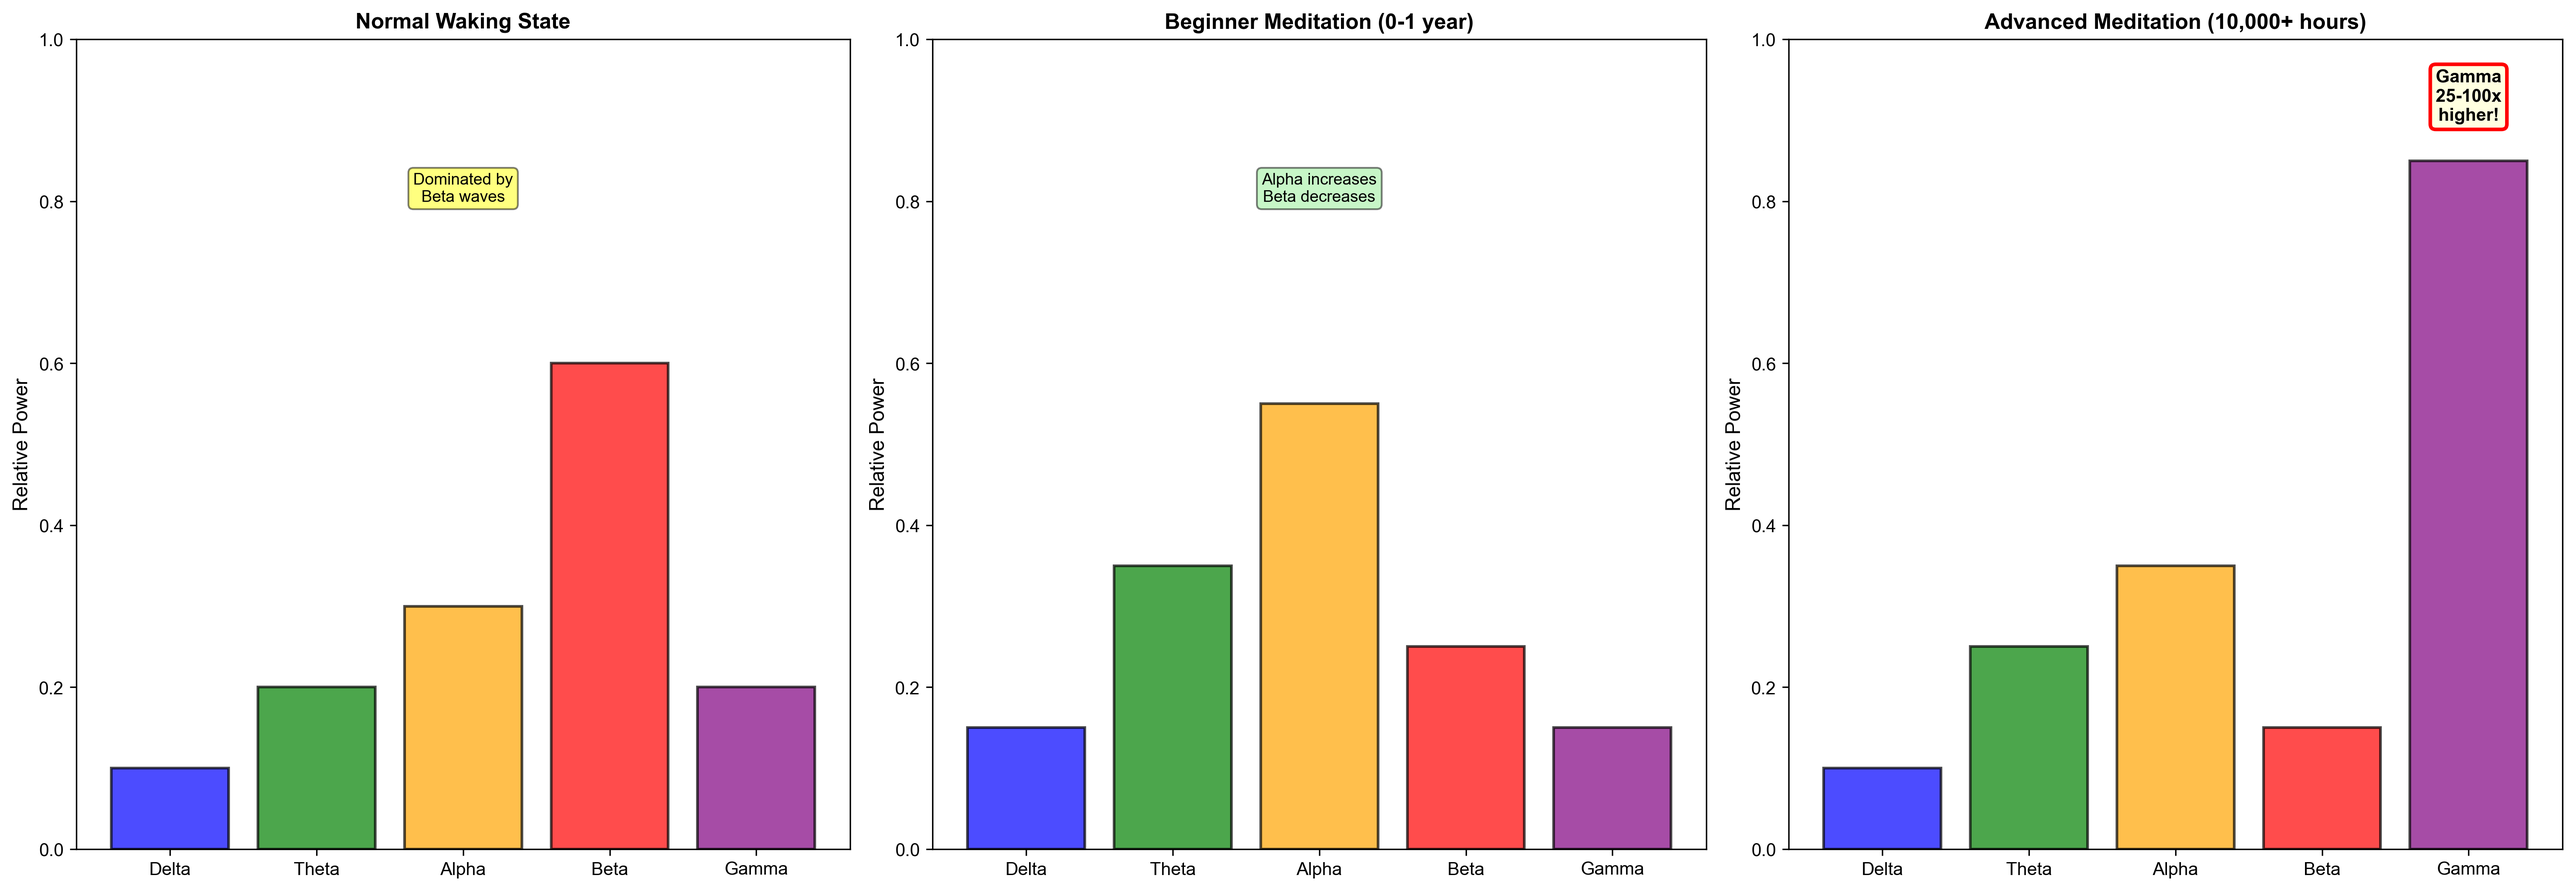
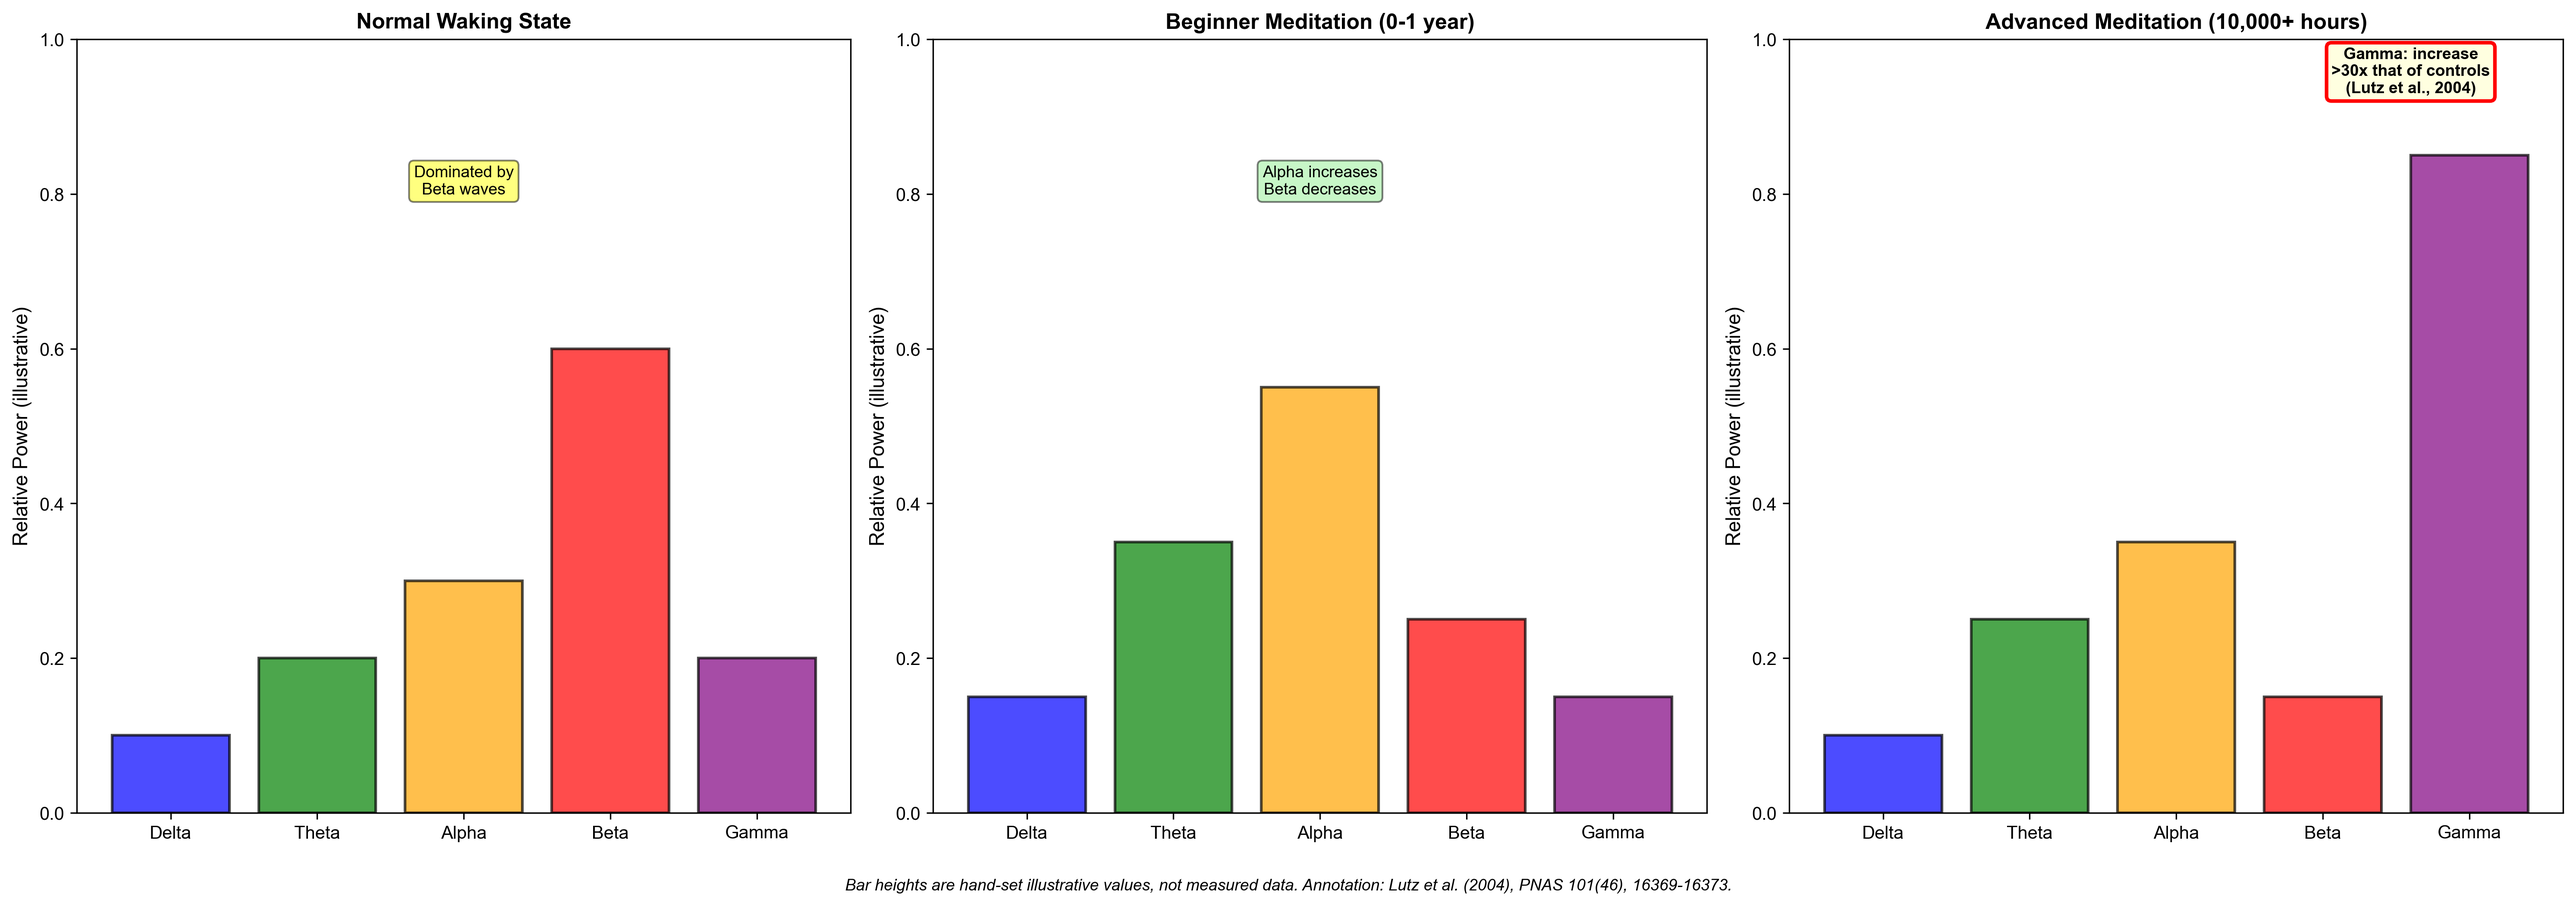
Fact-check fixes: Quantum x Eastern Philosophy articles 11-12
Align the free scripts and READMEs with the fact-checked articles
(Lutz et al. 2004 figures, author-assigned scores labelled as
illustrative, Series 3 naming).

diff --git a/series-03-quantum-eastern-philosophy/article-12-unified-reality/unified_reality_analysis.py b/series-03-quantum-eastern-philosophy/article-12-unified-reality/unified_reality_analysis.py
@@ -1,9 +1,13 @@
 """
 Unified Reality - Free Version
-Season 2 Article 12 (Finale): Basic Visualizations
+Series 3 Article 12 (Finale): Basic Visualizations
 
 Author: Wina Wu
-Date: 2025-01
+Date: 2026-10
+
+NOTE: Every score in this script (the 11 correspondence scores and the five
+theme scores) is hand-set by the author for illustration. They are subjective
+ratings, not measurements, and they are not computed from any data set.
 
 Requirements:
 pip install numpy matplotlib networkx
@@ -18,7 +22,7 @@ plt.rcParams['axes.unicode_minus'] = False
 
 print("=" * 70)
 print("Unified Reality - Free Version (Finale)")
-print("Season 2 Article 12")
+print("Series 3 Article 12")
 print("=" * 70)
 
 # Visualization 1: 11 Correspondences Network
@@ -26,7 +30,9 @@ def correspondences_network_basic():
     print("\n[Visualization 1] 11 Core Correspondences Network")
     fig, ax = plt.subplots(figsize=(20, 16))
 
-    # 11 correspondences with similarity scores
+    # 11 correspondences with hand-set illustrative scores (author-assigned,
+    # 0-10; not measured or computed). Quantum side first, Eastern side second,
+    # so that node colours match the legend.
     correspondences = [
         ('Wave-Particle\nDuality', 'Emptiness\n(Sunyata)', 9),
         ('Copenhagen\nInterpretation', 'Kyoto School\nPhilosophy', 8),
@@ -38,7 +44,7 @@ def correspondences_network_basic():
         ('EPR State', 'Dependent\nOrigination', 9),
         ('Quantum Mind\nTheory', 'Mind Philosophy\n(Xinxue)', 7),
         ('Quantum\nComputing', 'Non-duality\n(Advaita)', 8),
-        ('Meditation\nPractice', 'Quantum State\nCoherence', 8),
+        ('Quantum State\nCoherence', 'Meditation\nPractice', 8),
     ]
 
     G = nx.Graph()
@@ -71,7 +77,7 @@ def correspondences_network_basic():
            fontsize=16, fontweight='bold',
            bbox=dict(boxstyle='round', facecolor='yellow', alpha=0.7))
 
-    ax.text(0.02, 0.02, 'Blue: Quantum Mechanics\nGreen: Eastern Philosophy\nLine thickness: Similarity',
+    ax.text(0.02, 0.02, 'Blue: Quantum Mechanics\nGreen: Eastern Philosophy\nLine thickness: author-assigned illustrative score',
            transform=ax.transAxes, fontsize=10,
            bbox=dict(boxstyle='round', facecolor='white', alpha=0.8))
 
@@ -80,10 +86,11 @@ def correspondences_network_basic():
     plt.savefig('correspondences_network_basic.png', dpi=300, bbox_inches='tight')
     plt.show()
     print("  > 11 correspondences network visualized")
+    return correspondences
 
 # Visualization 2: 5 Common Patterns
 def five_patterns_basic():
-    print("\n[Visualization 2] Five Common Patterns")
+    print("\n[Visualization 2] Five Recurring Themes (illustrative scores)")
     fig, ax = plt.subplots(figsize=(14, 10))
 
     patterns = [
@@ -94,7 +101,11 @@ def five_patterns_basic():
         'Wholeness'
     ]
 
-    # Score for each pattern across all 11 correspondences
+    # Hand-set illustrative scores (not computed from data).
+    # The article distils three patterns (relationality, the participatory role
+    # of the observer, transcending binary opposition); this chart also lists
+    # Fundamental Uncertainty and Wholeness. "Observer Participation" follows
+    # Wheeler-style readings (speculative), not Bohr's own view.
     scores = [9.2, 8.5, 8.8, 8.7, 8.3]
     colors = ['#FF6B6B', '#4ECDC4', '#45B7D1', '#FFA07A', '#98D8C8']
 
@@ -104,26 +115,27 @@ def five_patterns_basic():
     for i, (bar, score) in enumerate(zip(bars, scores)):
         ax.text(score + 0.1, i, f'{score:.1f}/10', va='center', fontsize=11, fontweight='bold')
 
-    ax.set_xlabel('Average Similarity Score', fontsize=12)
-    ax.set_title('Five Common Patterns\nAcross 11 Correspondences',
+    ax.set_xlabel('Author-assigned illustrative score (0-10)', fontsize=12)
+    ax.set_title('Five Recurring Themes (illustrative scores)',
                 fontsize=14, fontweight='bold', pad=20)
     ax.set_xlim(0, 10)
     ax.grid(alpha=0.3, axis='x')
 
     # Add explanation
     ax.text(0.5, -0.15,
-           'These five patterns emerge consistently\nacross all quantum-philosophy correspondences',
+           'Five themes identified by the author;\nscores are hand-set and illustrative',
            ha='center', transform=ax.transAxes, fontsize=10, style='italic',
            bbox=dict(boxstyle='round', facecolor='yellow', alpha=0.5))
 
     plt.tight_layout()
     plt.savefig('five_patterns_basic.png', dpi=300, bbox_inches='tight')
     plt.show()
-    print("  > Five common patterns visualized")
+    print("  > Five recurring themes visualized")
+    return scores
 
 # Visualization 3: Two Paths Converging
 def two_paths_basic():
-    print("\n[Visualization 3] Two Paths to Same Truth")
+    print("\n[Visualization 3] Two Paths, Compared")
     fig, ax = plt.subplots(figsize=(16, 12))
 
     # Two paths
@@ -168,46 +180,52 @@ def two_paths_basic():
             ax.arrow(0.85, y-0.05, 0, -0.04, head_width=0.03, head_length=0.02,
                     fc='green', ec='green', linewidth=2)
 
-    # Convergence
+    # Arrows from each path to the shared themes (a comparison, not a proof)
     ax.arrow(0.15, 0.27, 0.27, -0.15, head_width=0.04, head_length=0.03,
             fc='purple', ec='purple', linewidth=3, linestyle='--')
     ax.arrow(0.85, 0.27, -0.27, -0.15, head_width=0.04, head_length=0.03,
             fc='purple', ec='purple', linewidth=3, linestyle='--')
 
-    # Unified truth
-    ax.text(0.5, 0.05, 'UNIFIED REALITY\n\n' +
+    # Shared themes (the author's interpretation)
+    ax.text(0.5, 0.05, "SHARED THEMES\n(author's interpretation)\n\n" +
            'Relationality - Participation\n' +
            'Non-duality - Uncertainty - Wholeness',
            ha='center', fontsize=12, fontweight='bold',
            bbox=dict(boxstyle='round', facecolor='gold', edgecolor='red', linewidth=3))
 
-    ax.text(0.5, 0.35, 'CONVERGENCE', ha='center', fontsize=11,
+    ax.text(0.5, 0.35, 'COMPARISON', ha='center', fontsize=11,
            fontweight='bold', color='purple')
 
     ax.set_xlim(0, 1)
     ax.set_ylim(0, 1)
     ax.axis('off')
-    ax.set_title('Two Paths to the Same Truth',
+    ax.set_title('Two Paths, Compared',
                 fontsize=14, fontweight='bold')
 
     plt.tight_layout()
     plt.savefig('two_paths_basic.png', dpi=300, bbox_inches='tight')
     plt.show()
-    print("  > Two paths convergence visualized")
+    print("  > Two paths comparison visualized")
 
 # Execute
-correspondences_network_basic()
-five_patterns_basic()
+correspondences = correspondences_network_basic()
+theme_scores = five_patterns_basic()
 two_paths_basic()
+
+# Means are computed from the hand-set scores above (illustrative, not measured)
+mean_corr = float(np.mean([c[2] for c in correspondences]))
+mean_themes = float(np.mean(theme_scores))
 
 print("\n" + "=" * 70)
 print("Free Version Complete (Finale)!")
 print("=" * 70)
-print("\nKey Findings:")
-print("  - 11 correspondences between quantum & philosophy")
-print("  - 5 common patterns: Relationality, Participation, Non-duality,")
-print("    Uncertainty, Wholeness")
-print("  - Two paths (Science & Philosophy) converge on unified reality")
-print("  - Average similarity: 8.6/10")
-print("\nSeason 2 Complete! Thank you for the journey!")
+print("\nSummary:")
+print("  - 11 correspondences between quantum mechanics & Eastern philosophy")
+print("  - 5 recurring themes: Relationality, Observer Participation,")
+print("    Transcending Duality, Fundamental Uncertainty, Wholeness")
+print("  - Two paths (Science & Philosophy) compared side by side")
+print(f"  - Mean of the 11 hand-set correspondence scores: {mean_corr:.2f}/10")
+print(f"  - Mean of the 5 hand-set theme scores: {mean_themes:.2f}/10")
+print("  - All scores are the author's illustrative ratings, not measurements")
+print("\nSeries 3 Complete! Thank you for the journey!")
 print("=" * 70)

diff --git a/series-03-quantum-eastern-philosophy/article-11-meditation-quantum-states/meditation_quantum_states_analysis.py b/series-03-quantum-eastern-philosophy/article-11-meditation-quantum-states/meditation_quantum_states_analysis.py
@@ -1,12 +1,23 @@
 """
 Meditation & Quantum States - Free Version
-Season 2 Article 11: Basic Visualizations
+Series 3, Article 11 of 12: Basic Visualizations
 
 Author: Wina Wu
 Date: 2025-01
 
 Requirements:
-pip install numpy matplotlib scipy
+pip install numpy matplotlib
+
+Data note (what is real and what is illustrative):
+- Real-world reference (text output and one chart annotation):
+  Lutz, Greischar, Rawlings, Ricard & Davidson (2004), "Long-term meditators
+  self-induce high-amplitude gamma synchrony during mental practice", PNAS
+  101(46), 16369-16373. Eight long-term Buddhist practitioners (10,000-50,000
+  hours of practice over 15-40 years) vs. controls. Reported: the gamma (25-42 Hz)
+  to slow-wave ratio was already higher at rest, and during meditation the adjusted
+  average increase in gamma activity was more than 30 times that of the controls.
+- Everything else in the charts (sine waves, bar heights, probabilities) is
+  hand-set and illustrative. It shows direction and structure, not measured EEG data.
 """
 
 import numpy as np
@@ -17,7 +28,7 @@ plt.rcParams['axes.unicode_minus'] = False
 
 print("=" * 70)
 print("Meditation & Quantum States - Free Version")
-print("Season 2 Article 11")
+print("Series 3, Article 11 of 12")
 print("=" * 70)
 
 # Visualization 1: Brain Wave Types
@@ -28,7 +39,9 @@ def brainwave_types_basic():
     time = np.linspace(0, 2, 1000)
     y_offset = 0
 
-    # Wave types
+    # Schematic sine waves: one representative frequency per band, NOT EEG recordings.
+    # Band edges are conventional and differ between sources. Gamma is often given
+    # as ~25-100 Hz (Lutz et al. 2004 analysed 25-42 Hz).
     waves = [
         ('Delta', 2, '0.5-4', 'Deep sleep'),
         ('Theta', 6, '4-8', 'Light sleep, deep meditation'),
@@ -63,13 +76,16 @@ def meditation_stages_basic():
     print("\n[Visualization 2] Meditation Brain Wave Changes")
     fig, (ax1, ax2, ax3) = plt.subplots(1, 3, figsize=(20, 7))
 
+    # NOTE: every bar height below (normal / beginner / advanced) is a hand-set,
+    # illustrative relative-power value, NOT measured data. Only the annotation in the
+    # last panel refers to a real result (Lutz et al. 2004, PNAS 101(46)).
     # Normal waking state
     wave_types = ['Delta', 'Theta', 'Alpha', 'Beta', 'Gamma']
     normal = [0.1, 0.2, 0.3, 0.6, 0.2]
 
     ax1.bar(wave_types, normal, color=['blue', 'green', 'orange', 'red', 'purple'],
            edgecolor='black', linewidth=1.5, alpha=0.7)
-    ax1.set_ylabel('Relative Power', fontsize=11)
+    ax1.set_ylabel('Relative Power (illustrative)', fontsize=11)
     ax1.set_title('Normal Waking State', fontsize=12, fontweight='bold')
     ax1.set_ylim(0, 1)
     ax1.text(2, 0.8, 'Dominated by\nBeta waves', ha='center', fontsize=9,
@@ -80,7 +96,7 @@ def meditation_stages_basic():
 
     ax2.bar(wave_types, beginner, color=['blue', 'green', 'orange', 'red', 'purple'],
            edgecolor='black', linewidth=1.5, alpha=0.7)
-    ax2.set_ylabel('Relative Power', fontsize=11)
+    ax2.set_ylabel('Relative Power (illustrative)', fontsize=11)
     ax2.set_title('Beginner Meditation (0-1 year)', fontsize=12, fontweight='bold')
     ax2.set_ylim(0, 1)
     ax2.text(2, 0.8, 'Alpha increases\nBeta decreases', ha='center', fontsize=9,
@@ -91,13 +107,20 @@ def meditation_stages_basic():
 
     ax3.bar(wave_types, advanced, color=['blue', 'green', 'orange', 'red', 'purple'],
            edgecolor='black', linewidth=1.5, alpha=0.7)
-    ax3.set_ylabel('Relative Power', fontsize=11)
+    ax3.set_ylabel('Relative Power (illustrative)', fontsize=11)
     ax3.set_title('Advanced Meditation (10,000+ hours)', fontsize=12, fontweight='bold')
     ax3.set_ylim(0, 1)
-    ax3.text(4, 0.9, 'Gamma\n25-100x\nhigher!', ha='center', fontsize=10, fontweight='bold',
+    # Real result (Lutz et al. 2004): 8 long-term practitioners, 10,000-50,000 h over
+    # 15-40 years; adjusted average gamma (25-42 Hz) increase during meditation was
+    # more than 30-fold that of controls (this is NOT the ratio of the bars above).
+    ax3.text(3.6, 0.99, 'Gamma: increase\n>30x that of controls\n(Lutz et al., 2004)', ha='center',
+            va='top', fontsize=9, fontweight='bold',
             bbox=dict(boxstyle='round', facecolor='lightyellow', edgecolor='red', linewidth=2))
 
-    plt.tight_layout()
+    fig.text(0.5, 0.01, 'Bar heights are hand-set illustrative values, not measured data. '
+             'Annotation: Lutz et al. (2004), PNAS 101(46), 16369-16373.',
+             ha='center', fontsize=9, style='italic')
+    plt.tight_layout(rect=[0, 0.04, 1, 1])
     plt.savefig('meditation_stages_basic.png', dpi=300, bbox_inches='tight')
     plt.show()
     print("  Done: Meditation stages compared")
@@ -174,10 +197,11 @@ nothought_superposition_basic()
 print("\n" + "=" * 70)
 print("Free Version Complete!")
 print("=" * 70)
-print("\nKey Findings:")
+print("\nKey Points:")
 print("  - Brain waves: Delta, Theta, Alpha, Beta, Gamma")
-print("  - Advanced meditators: Gamma waves 25-100x stronger")
-print("  - No-thought (Wu-Nian) ~ Superposition (Die-Jia-Tai)")
+print("  - Long-term meditators (Lutz et al. 2004): gamma increase >30x that of controls")
+print("  - No-thought (Wu-Nian) ~ Superposition (Die-Jia-Tai): a structural analogy")
 print("  - Both: Open state full of potential")
-print("  - Meditation trains consciousness like quantum computing")
+print("  - Holding superposition vs. decoherence ~ holding no-mind vs. attachment")
+print("  - Note: chart values (waves, bars) are illustrative, not measured data")
 print("=" * 70)

diff --git a/series-03-quantum-eastern-philosophy/article-11-meditation-quantum-states/README.md b/series-03-quantum-eastern-philosophy/article-11-meditation-quantum-states/README.md
@@ -1,6 +1,6 @@
 # Article 11 — Meditation and Quantum States
 
-**Tibetan monks produce gamma waves that defy explanation. Quantum states require isolation that defies engineering.**
+**Long-term Tibetan Buddhist practitioners show unusually strong gamma activity during meditation. Quantum states require isolation that defies engineering.**
 
 Using Python to visualize brainwave types, meditation stages, and the parallel between no-thought and superposition.
 
@@ -11,19 +11,29 @@ pip install numpy matplotlib
 python meditation_quantum_states_analysis.py
 ```
 
+The script opens three matplotlib windows and saves three PNGs next to it. Set `MPLBACKEND=Agg` to skip the windows.
+
 ## Charts
 
 - `brainwave_types_basic.png` — Brainwave types: alpha, beta, theta, gamma
 - `meditation_stages_basic.png` — Meditation depth stages
 - `nothought_superposition_basic.png` — No-thought as superposition
 
+## Data Note
+
+- **Real-world reference:** Lutz, Greischar, Rawlings, Ricard & Davidson (2004), [Long-term meditators self-induce high-amplitude gamma synchrony during mental practice](https://www.pnas.org/doi/10.1073/pnas.0407401101), PNAS 101(46), 16369-16373. Eight long-term Buddhist practitioners (10,000-50,000 hours of practice over 15-40 years) vs. controls. At rest the gamma (25-42 Hz) to slow-wave ratio was already higher in the practitioners; during meditation the adjusted average gamma increase was more than 30 times that of the controls. The script quotes this in its text output and in one annotation of `meditation_stages_basic.png`.
+- **Illustrative values:** the sine waves and all bar heights in the charts are hand-set to show direction and structure. They are not EEG recordings or measured data. The bars in `meditation_stages_basic.png` are not the study's numbers.
+- The no-thought / superposition comparison is a structural analogy, not a physical claim.
+
 ## Read the Full Article
 
-📅 Publishing September 29, 2026 on [Code & Cogito](https://code-cogito.com)
+- [English](https://code-cogito.com/en/meditation-quantum-states-practice-en/)
+- [Chinese](https://code-cogito.com/meditation-quantum-states-practice/)
+- [Japanese](https://code-cogito.com/ja/meditation-quantum-states-practice-ja/)
 
 ## Want More?
 
-The [Deep Dive Pack](https://codecogito.gumroad.com/l/quantum-eastern-11?utm_source=github&utm_medium=readme&utm_campaign=article_pack&utm_content=quantum-eastern-11) for this article includes the complete code, the data file, Jupyter Notebook, and a PDF cheatsheet.
+The [Deep Dive Pack](https://codecogito.gumroad.com/l/quantum-eastern-11?utm_source=github&utm_medium=readme&utm_campaign=article_pack&utm_content=quantum-eastern-11) for this article includes the complete code, the CSV data files, a Jupyter Notebook, and PDF cheatsheets (EN/ZH/JA).
 
 New to this kind of analysis? The free [Starter Notebook](https://codecogito.gumroad.com/l/starter-notebook?utm_source=github&utm_medium=readme&utm_campaign=starter&utm_content=quantum-eastern-11) takes one real dataset (Maddison Project GDP, 1500–2022) from download to three figures in about 30 minutes.
 

diff --git a/series-03-quantum-eastern-philosophy/article-12-unified-reality/README.md b/series-03-quantum-eastern-philosophy/article-12-unified-reality/README.md
@@ -2,7 +2,7 @@
 
 **11 structural correspondences between quantum mechanics and Eastern philosophy. Coincidence, or convergence?**
 
-Using Python to map the complete correspondence network, identify recurring patterns, and compare two paths to understanding reality.
+Using Python to draw the network of the 11 correspondences, chart five recurring themes, and compare two paths to understanding reality. The scores and the shared themes are the author's own interpretation, not measured results or established physics.
 
 ## Quick Start
 
@@ -11,11 +11,15 @@ pip install numpy matplotlib networkx
 python unified_reality_analysis.py
 ```
 
+The script saves three PNG files in the current folder. To run it without opening plot windows, set `MPLBACKEND=Agg` first.
+
 ## Charts
 
-- `correspondences_network_basic.png` — Quantum-Eastern correspondence network
-- `five_patterns_basic.png` — Five recurring structural patterns
-- `two_paths_basic.png` — Two paths to the same destination
+- `correspondences_network_basic.png` — Network of the 11 quantum-Eastern correspondences (line thickness = hand-set illustrative score)
+- `five_patterns_basic.png` — Five recurring themes with hand-set illustrative scores
+- `two_paths_basic.png` — Two paths (Western science and Eastern philosophy), compared
+
+The scores in these charts are the author's own hand-set illustrations, not measurements and not computed from data. The article's text distils three patterns (relationality, the participatory role of the observer, transcending binary opposition); the chart lists two more themes, Fundamental Uncertainty and Wholeness.
 
 ## Read the Full Article
 
@@ -23,7 +27,7 @@ python unified_reality_analysis.py
 
 ## Want More?
 
-The [Deep Dive Pack](https://codecogito.gumroad.com/l/quantum-eastern-12?utm_source=github&utm_medium=readme&utm_campaign=article_pack&utm_content=quantum-eastern-12) for this article includes the complete code, the data file, Jupyter Notebook, and a PDF cheatsheet.
+The [Deep Dive Pack](https://codecogito.gumroad.com/l/quantum-eastern-12?utm_source=github&utm_medium=readme&utm_campaign=article_pack&utm_content=quantum-eastern-12) for this article includes the complete code, five CSV data tables, a Jupyter Notebook, and a PDF cheatsheet.
 
 New to this kind of analysis? The free [Starter Notebook](https://codecogito.gumroad.com/l/starter-notebook?utm_source=github&utm_medium=readme&utm_campaign=starter&utm_content=quantum-eastern-12) takes one real dataset (Maddison Project GDP, 1500–2022) from download to three figures in about 30 minutes.
 
